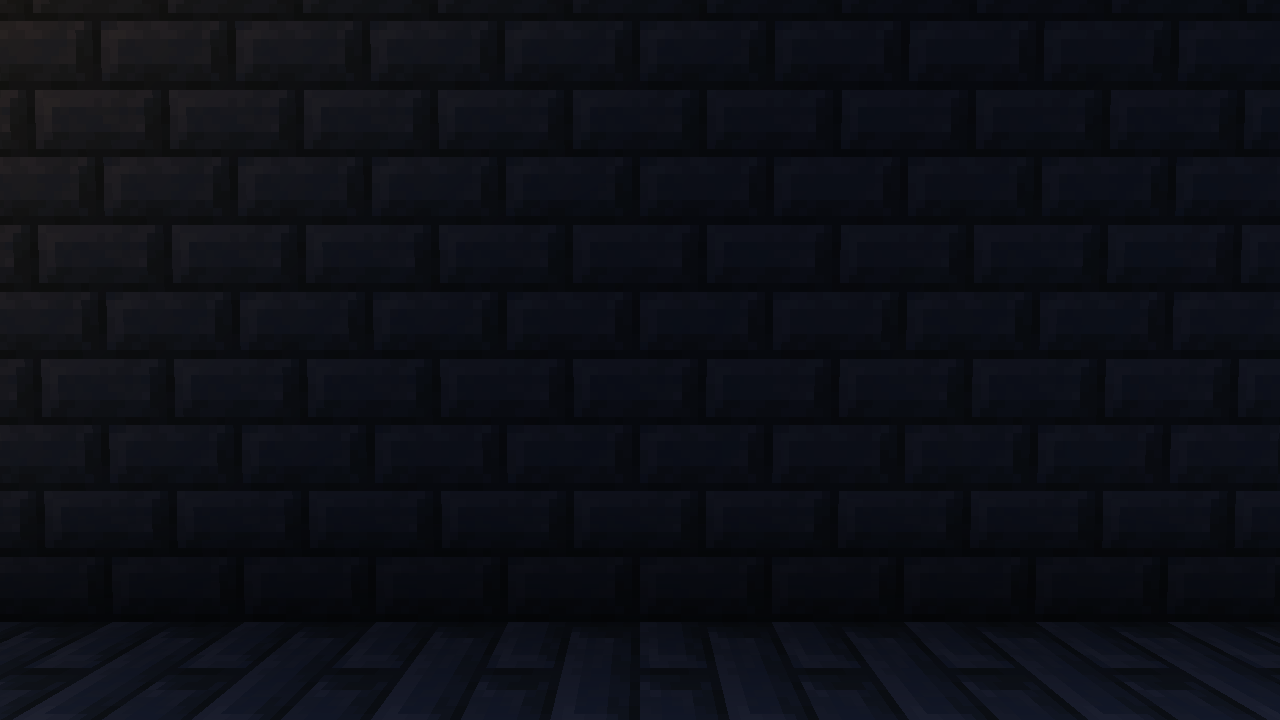
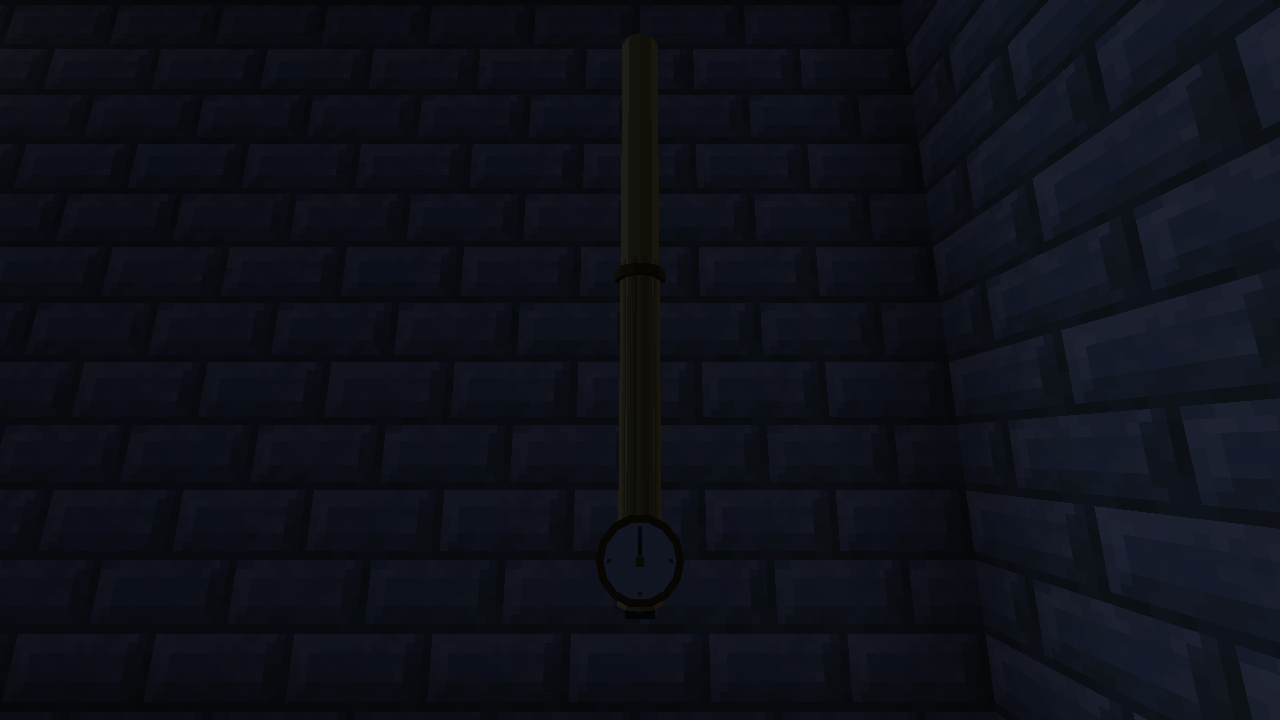
c164-snow: machines/recorders: the pictures of the final head, and the card's note on why the pipe is stacked sections and not one model

diff --git a/c164-realms/plan/packages/machines/recorders.md b/c164-realms/plan/packages/machines/recorders.md
@@ -33,7 +33,7 @@
 **件的画法与读法**
 - `mach_rec_drum` 转鼓记录仪：深木底座（0.44 格高）上一只**横放的鼓，直径 1.0 格、宽 1.19 格**，两端黄铜法兰、中间 cream 图纸，图上有一道深一阶的笔迹；鼓上方是滑杆和记录笔，后面是供纸卷，前面是抽屉，东侧立柱外有一只手摇曲柄。第一稿鼓只 0.33 格粗、底座占大头，图上读成“柜子上放个白盒子”；把鼓放大成主角、底座压到 0.44 格之后才读成记录仪（两稿都出了图对比）。
 - `mach_rec_telegraph` 电报机：木底座、铁线圈箱黄铜箍两道、两根立柱托起衔铁（上面有止档和调整螺钉），东端一只 cream 纸卷插在黄铜叉上、纸带向东引出，西端两个接线柱（给旁边的电报键）。
-- `mach_rec_tube` 气动传送管口：铁背板贴墩、黄铜管体横出墙面、载物门带把手、门上方一块瓷面指数盘（黄铜圈、四道刻度、一根不动的指针），管子向上跑到天花板、带黄铜箍。
+- `mach_rec_tube` 气动传送管口：铁背板贴墩、黄铜管体横出墙面、载物门带把手、门上方一块瓷面指数盘（黄铜圈、四道刻度、一根不动的指针）。管子从终端脚底（台脚以上 1.2 格）一直跑到天花板（默认 6.0 格以上，即授时室的 y 14）。**管子不能塞进管体那个模型里**：一个模型最多跨 3 格（`model.shift()` 的 48 单位限制），所以管子是单独的 `mach_rec_pipe`，按 3 格一节往上叠（每节 `scale=(1, span/3, 1)`），拼接处不出盖、16 像素一格不糊。`tube(top=)` 可以改天花板的 y。
 
 **锚点（给 A8，也是给 m2 的调用口径）**
 - 三件都按 **m2 自己那张 `timeroom.SLOTS`** 接：`drum (9.5, 8.0, −23.5) south`、`telegraph (6.5, 8.0, −23.5) south`、`tube (14.0, 8.0, −9.5) west`（他的分支 `cursor/c164-m2-timeroom-80c9` @ `a14a1f37`）。`pos` 的 y 是**件站的那个面**（台顶 8.0）——`pos` 加多少由我的函数自己算，他不用做算术。
